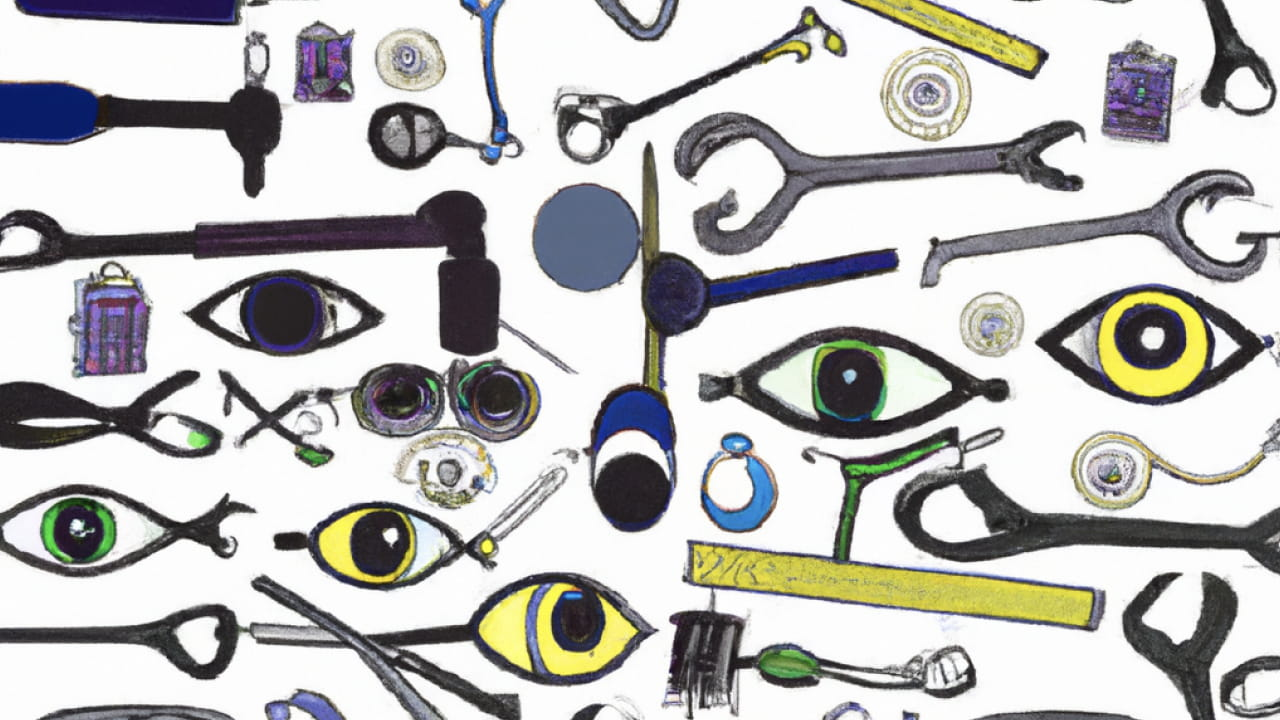
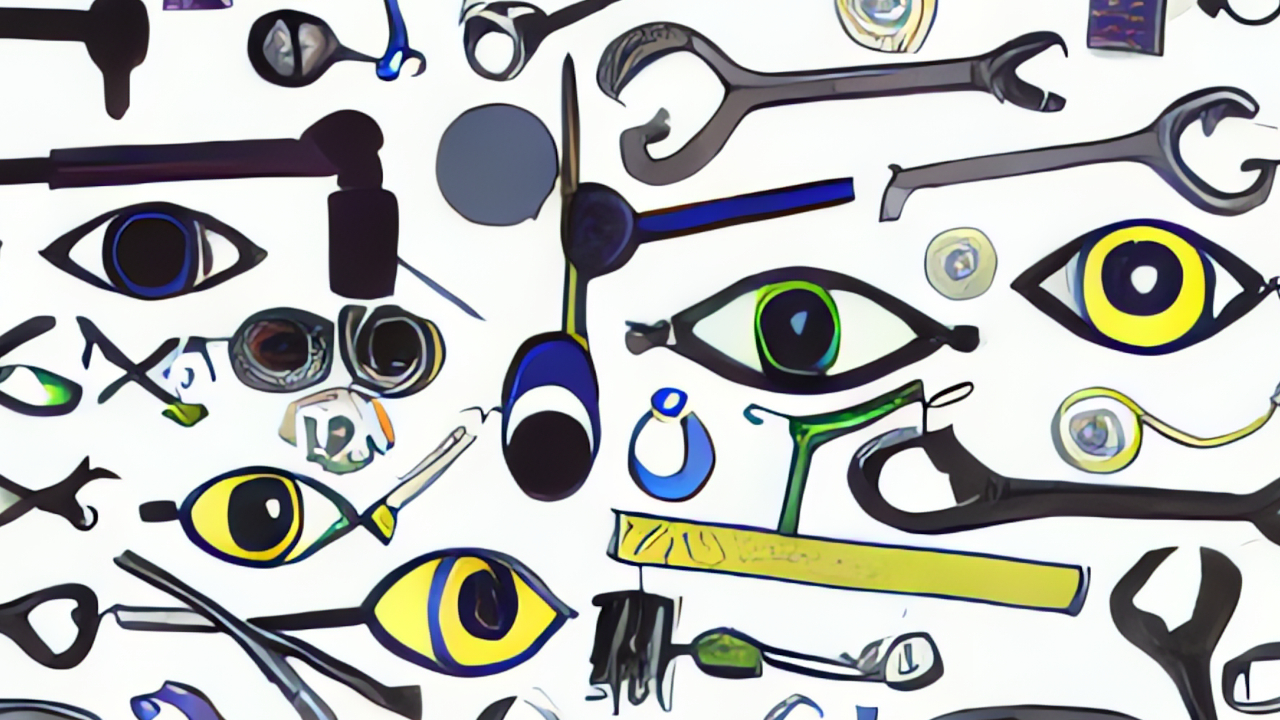
Rebase to master Fix track Matlab (there was an additional "e" at the beg of the file) Upscale image Fix conflict with AoI file
M  src/alpha-lab/gaze-metrics-in-aois/README.ipynb
M  src/invisible/how-tos/integrate-with-the-real-time-api/track-your-experiment-in-matlab.md
M  src/media/alpha-lab/alpha-lab-banner.jpg

diff --git a/src/invisible/how-tos/integrate-with-the-real-time-api/track-your-experiment-in-matlab.md b/src/invisible/how-tos/integrate-with-the-real-time-api/track-your-experiment-in-matlab.md
@@ -1,7 +1,6 @@
-e---
-permalink: /invisible/how-tos/integrate-with-the-real-time-api/track-your-experiment-in-matlab
+---
+permalink: /invisible/how-tos/integrate-with-the-real-time-api/track-your-experiment-in-matlab'
 description: A simple guide on how to build experiments in Matlab
-
 ---
 
 # Track your experiment in MATLAB
